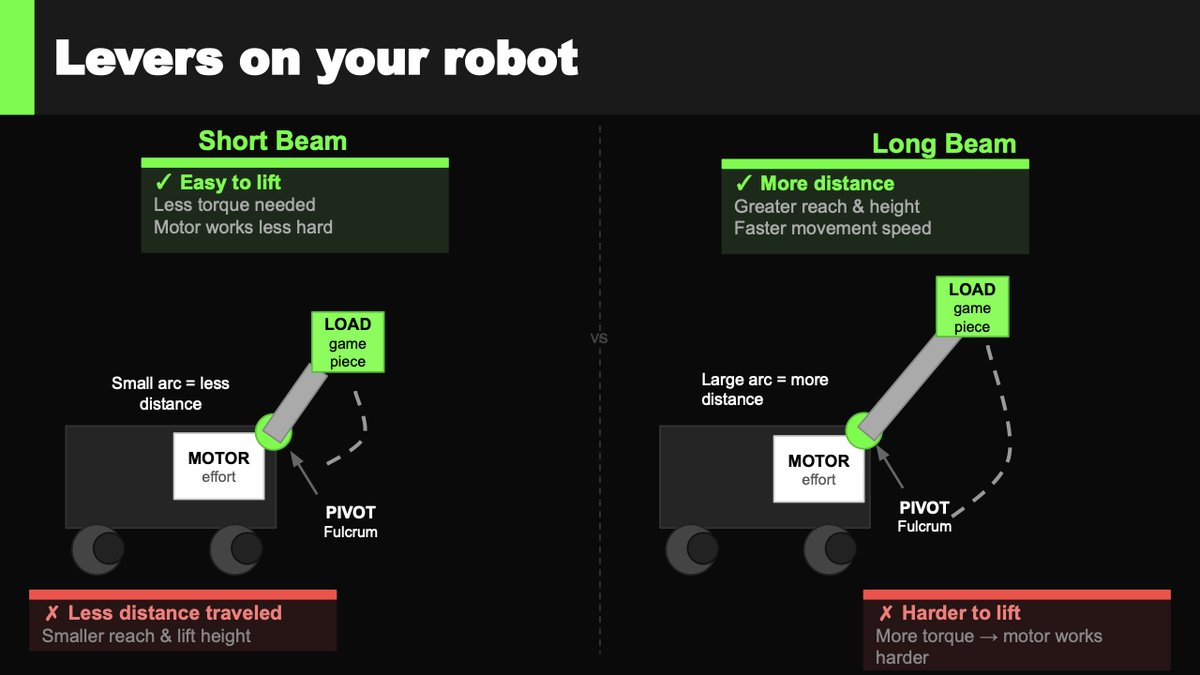
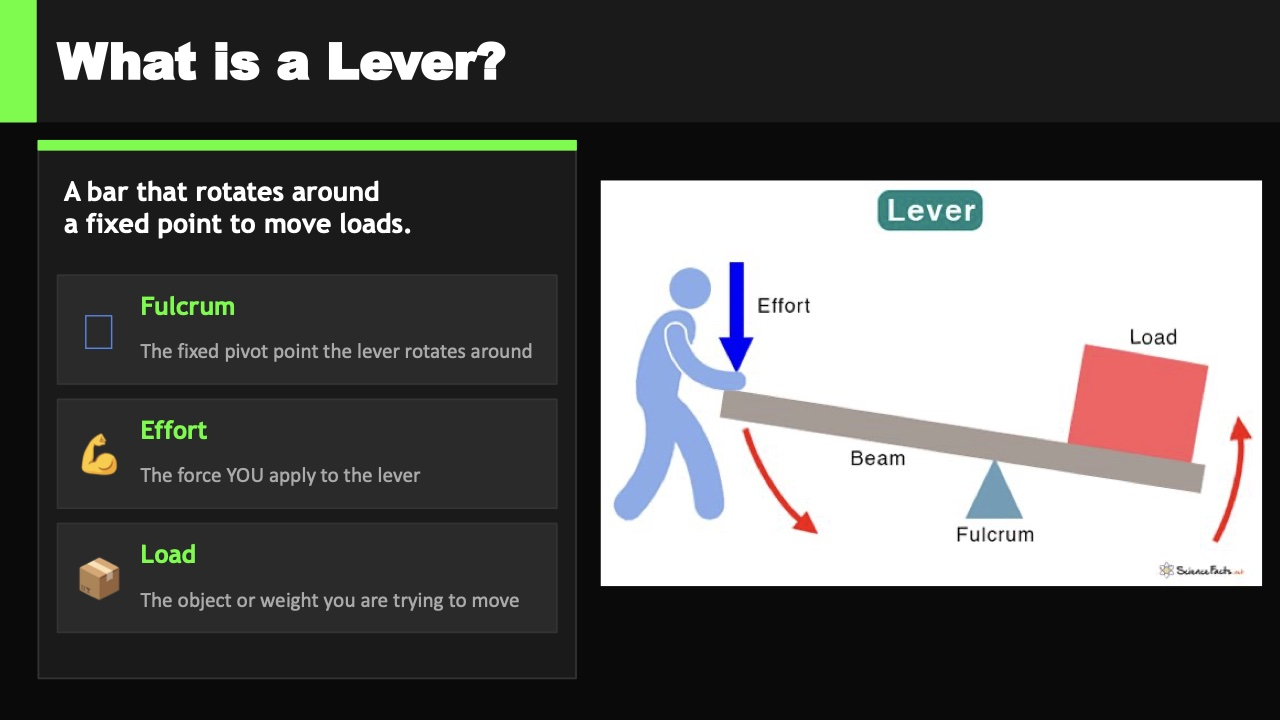
Citrus page fixes, shorter demo status text, footer name
- Citrus: three seasons, drop subteam size, credit Richard McCann,
  whitepaper link, new 2026 robot photo, What is a Lever slide,
  photo credit on the Championship picture
- Hand demo: status reads Camera off / Tracking / No hand detected
- Footer: Joseph Touchman

diff --git a/citrus.html b/citrus.html
@@ -4,11 +4,11 @@
   <meta charset="utf-8">
   <meta name="viewport" content="width=device-width, initial-scale=1">
   <title>FRC 1678 Citrus Circuits · Joe Touchman</title>
-  <meta name="description" content="My two seasons on FRC Team 1678 Citrus Circuits: Software Scouting front-end developer, youth robotics instructor and tournament volunteer.">
+  <meta name="description" content="My three seasons on FRC Team 1678 Citrus Circuits: Software Scouting front-end developer, youth robotics instructor and tournament volunteer.">
   <link rel="canonical" href="https://joetouchman.com/citrus.html">
   <meta property="og:type" content="website">
   <meta property="og:title" content="FRC 1678 Citrus Circuits · Joe Touchman">
-  <meta property="og:description" content="My two seasons on FRC Team 1678 Citrus Circuits: Software Scouting front-end developer, youth robotics instructor and tournament volunteer.">
+  <meta property="og:description" content="My three seasons on FRC Team 1678 Citrus Circuits: Software Scouting front-end developer, youth robotics instructor and tournament volunteer.">
   <meta property="og:url" content="https://joetouchman.com/citrus.html">
   <meta property="og:image" content="https://joetouchman.com/assets/img/og.jpg">
   <meta name="twitter:card" content="summary_large_image">
@@ -44,7 +44,7 @@
             <img src="assets/img/citrus-logo.png" width="313" height="199" alt="Citrus Circuits 1678 logo">
             <h1>FRC 1678 Citrus Circuits</h1>
           </div>
-          <p class="lead">A world championship level high school robotics team. I was a member for two seasons, 2024 to 2026.</p>
+          <p class="lead">A world championship level high school robotics team. I was a member for three seasons, 2024 to 2026.</p>
         </div>
         <ul class="roles" aria-label="My roles">
           <li><b>Software Scouting, front-end developer</b><em>2024–2026</em><span>Built the Android apps scouts and strategists use at competitions</span></li>
@@ -56,8 +56,9 @@
 
       <section class="block reveal">
         <h2>Software Scouting</h2>
-        <p class="lead">At every competition the team records what each robot does in each match, then uses that data to plan matches and choose alliance partners. Software Scouting is the 21-student subteam that builds the six apps and the server that make this work. Front-end developers write the apps in Kotlin.</p>
+        <p class="lead">At every competition the team records what each robot does in each match, then uses that data to plan matches and choose alliance partners. Software Scouting is the subteam that builds the six apps and the server that make this work. Front-end developers write the apps in Kotlin.</p>
         <ul class="chips"><li>Kotlin</li><li>Jetpack Compose</li><li>Android Studio</li><li>Kotlin Multiplatform</li><li>Git + GitHub</li><li>Code review</li></ul>
+        <p class="small" style="margin-top:1em">The full system is documented in the team's <a href="https://drive.google.com/file/d/1hhZVOEdRNCF3oYh1uQEQY3pWei5Criop/view" target="_blank" rel="noopener">2026 Software Scouting whitepaper ↗</a></p>
       </section>
 
       <section class="block reveal">
@@ -71,7 +72,7 @@
           <div>
             <span class="tag tag--hot">My main project</span>
             <h3>Match Collection</h3>
-            <p>The tablet app scouts in the stands use to record everything one robot does in a match. I designed and built about 90% of the 2026 Objective Match Collection app, including the interface design. Every qualification match, 18 scouts use it at once, three per robot.</p>
+            <p>The tablet app scouts in the stands use to record everything one robot does in a match. I designed and built the 2026 Objective Match Collection app, including the interface design. Every qualification match, 18 scouts use it at once, three per robot.</p>
             <ul class="ticks">
               <li>Field map: scouts follow the robot zone to zone, and can only move to zones that connect</li>
               <li>Press-and-hold shot timing with a live timer, used by the server to match shots to the scoreboard</li>
@@ -88,7 +89,7 @@
           <article class="card">
             <h3>Viewer: multi-team graphs</h3>
             <p>Viewer is the app the drive team and strategists read data in. I built multi-team graphs: put several teams on one chart, or split them into a scrolling list of charts.</p>
-            <blockquote>"You made the multiple team graphs? That's the feature I used the most."<cite>A 1678 coach</cite></blockquote>
+            <blockquote>"You made the multiple team graphs? That's the feature I used the most."<cite>Richard McCann, 1678 mentor</cite></blockquote>
           </article>
           <article class="card">
             <h3>Viewer: team comparison</h3>
@@ -111,7 +112,7 @@
             <p>I ran the drone section of the summer robotics camp on my own, with 14 drones in one classroom. I chose which drones to buy, wrote the slides, safety rules and lesson plans, and taught kids to code them through rings and onto targets. The teacher kept my materials for later camps.</p>
           </article>
           <article class="card card--img">
-            <img src="assets/img/slide-levers.jpg" loading="lazy" width="1200" height="675" alt="One of my slides comparing a short arm and a long arm on a robot.">
+            <img src="assets/img/slide-levers.jpg" loading="lazy" width="1200" height="675" alt="My slide titled What is a Lever?, explaining the fulcrum, effort and load.">
             <h3>Weekly robotics class</h3>
             <p>For one school year each at Davis Waldorf and Davis School for Independent Study, I was the robotics instructor for kids aged 8 to 14: building, coding and driving competition robots. I wrote my own lessons on levers, counterweights and weight distribution. The image is one of my slides.</p>
           </article>
@@ -132,11 +133,11 @@
           </figure>
           <figure class="frame">
             <img src="assets/img/worlds.jpg" loading="lazy" width="1200" height="897" alt="Confetti falling over the crowd at the FIRST Championship.">
-            <figcaption>FIRST Championship</figcaption>
+            <figcaption>FIRST Championship <span class="credit-line">Photo: Joseph Touchman</span></figcaption>
           </figure>
           <figure class="frame">
-            <img src="assets/img/robot-2026.jpg" loading="lazy" width="900" height="996" alt="The 2026 Citrus Circuits robot, seen from above.">
-            <figcaption>The 2026 robot. I didn't work on the robot itself, only the scouting software.</figcaption>
+            <img src="assets/img/robot-2026.jpg" loading="lazy" width="900" height="898" alt="The 2026 Citrus Circuits robot on the field, surrounded by yellow game pieces.">
+            <figcaption>The team's 2026 robot</figcaption>
           </figure>
         </div>
       </section>
@@ -150,7 +151,7 @@
 
   <footer class="footer">
     <div class="wrap">
-      <p>Joseph "Joe" Touchman · <a href="mailto:jtouchma@ucsc.edu">jtouchma@ucsc.edu</a></p>
+      <p>Joseph Touchman · <a href="mailto:jtouchma@ucsc.edu">jtouchma@ucsc.edu</a></p>
       <p><a href="https://github.com/JoeTouchman/joetouchman.com" target="_blank" rel="noopener">Site source on GitHub</a></p>
     </div>
   </footer>

diff --git a/js/hand-demo.js b/js/hand-demo.js
@@ -252,11 +252,11 @@ function frame(now) {
           smoothed[i] = !handPresent || smoothed[i] == null ? raw : ALPHA * raw + (1 - ALPHA) * smoothed[i];
           curls[i] = normalize(smoothed[i], CAL[i]);
         });
-        if (!handPresent) setStatus("Tracking. Make a fist, point, count to five.");
+        if (!handPresent) setStatus("Tracking");
         handPresent = true;
         liveCurls = curls;
       } else {
-        if (handPresent) setStatus("Lost your hand. Hold it up to the camera.");
+        if (handPresent) setStatus("No hand detected");
         handPresent = false;
         liveCurls = [0, 0, 0, 0, 0];
       }
@@ -347,16 +347,16 @@ async function start() {
   startBtn.hidden = true;
   stopBtn.hidden = false;
   mode = "live";
-  setStatus("Hold your hand up to the camera.");
+  setStatus("No hand detected");
 }
 
 startBtn.addEventListener("click", start);
 stopBtn.addEventListener("click", () => {
   stopCamera();
-  setStatus("Camera off. Back to the startup wave.");
+  setStatus("Camera off");
 });
 document.addEventListener("visibilitychange", () => {
-  if (document.hidden && mode === "live") { stopCamera(); setStatus("Camera off."); }
+  if (document.hidden && mode === "live") { stopCamera(); setStatus("Camera off"); }
 });
 
 // ------------------------------------------------------------- 3D model

diff --git a/hand.html b/hand.html
@@ -94,7 +94,7 @@
               <button class="btn btn--primary" id="demoStart" type="button">Turn on camera</button>
               <button class="btn" id="demoStop" type="button" hidden>Stop</button>
             </div>
-            <p class="demo__status" id="demoStatus" role="status">Camera off: playing the hand's startup wave.</p>
+            <p class="demo__status" id="demoStatus" role="status">Camera off</p>
           </div>
           <div class="demo__stage">
             <div class="demo__cam frame" id="demoCamBox" hidden>
@@ -222,7 +222,7 @@
 
   <footer class="footer">
     <div class="wrap">
-      <p>Joseph "Joe" Touchman · <a href="mailto:jtouchma@ucsc.edu">jtouchma@ucsc.edu</a></p>
+      <p>Joseph Touchman · <a href="mailto:jtouchma@ucsc.edu">jtouchma@ucsc.edu</a></p>
       <p><a href="https://github.com/JoeTouchman/joetouchman.com" target="_blank" rel="noopener">Site source on GitHub</a></p>
     </div>
   </footer>

diff --git a/css/style.css b/css/style.css
@@ -125,6 +125,7 @@ h4 { font-family: var(--mono); font-size: .74rem; font-weight: 500; text-transfo
 .frame > img, .frame > video { width: 100%; }
 .frame figcaption { padding: 9px 14px; font-size: .82rem; color: var(--muted); border-top: 1px solid var(--line); line-height: 1.4; }
 .frame figcaption b { color: var(--text); font-weight: 600; }
+.credit-line { display: block; margin-top: 2px; font: 500 .66rem var(--mono); letter-spacing: .08em; text-transform: uppercase; color: var(--muted); opacity: .8; }
 
 /* ---------- hero ---------- */
 .hero { position: relative; min-height: 100svh; display: flex; flex-direction: column; padding-top: 72px; overflow: hidden; }

diff --git a/index.html b/index.html
@@ -207,7 +207,7 @@
 
   <footer class="footer">
     <div class="wrap">
-      <p>Joseph "Joe" Touchman · <a href="mailto:jtouchma@ucsc.edu">jtouchma@ucsc.edu</a></p>
+      <p>Joseph Touchman · <a href="mailto:jtouchma@ucsc.edu">jtouchma@ucsc.edu</a></p>
       <p><a href="https://github.com/JoeTouchman/joetouchman.com" target="_blank" rel="noopener">Site source on GitHub</a></p>
     </div>
   </footer>

diff --git a/vex.html b/vex.html
@@ -90,7 +90,7 @@
 
   <footer class="footer">
     <div class="wrap">
-      <p>Joseph "Joe" Touchman · <a href="mailto:jtouchma@ucsc.edu">jtouchma@ucsc.edu</a></p>
+      <p>Joseph Touchman · <a href="mailto:jtouchma@ucsc.edu">jtouchma@ucsc.edu</a></p>
       <p><a href="https://github.com/JoeTouchman/joetouchman.com" target="_blank" rel="noopener">Site source on GitHub</a></p>
     </div>
   </footer>
